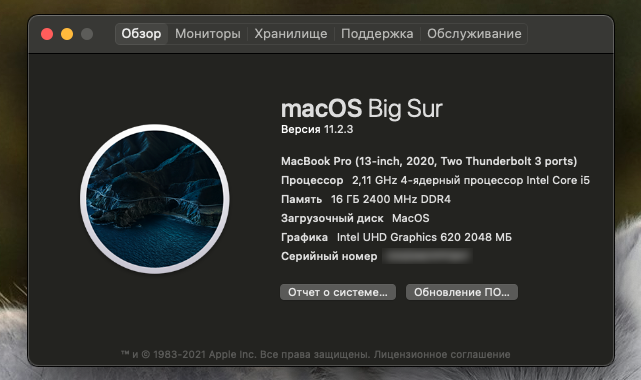
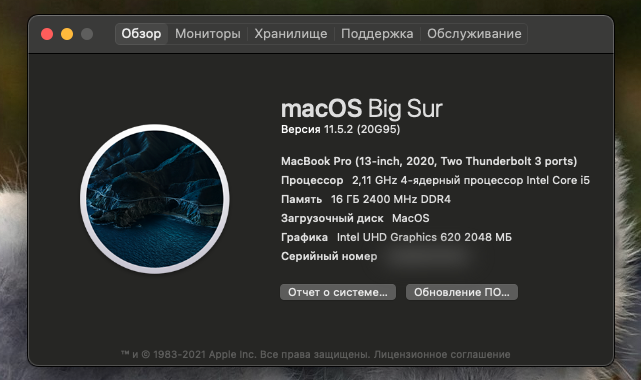
Add files via upload
update info

diff --git a/README.md b/README.md
@@ -18,7 +18,7 @@
 # Tested System Configuration
 - <img src="https://github.com/KerKerOgh/MSI-Prestige-15-Hackintosh/blob/master/Screenshot.png/" width=512>
 - OpenCore: v0.6.7
-- MacOS: BigSur 11.2.3 (20D91)
+- MacOS: BigSur 11.5.2 (20G95)
 - SMBIOS: MacBook Pro 16.3
 - Config OC v0.6.5: [In repository](https://github.com/KerKerOgh/MSI-Prestige-15-Hackintosh/blob/master/OpenCore/config.plist)
 - Config OC v0.6.7: [In repository](https://github.com/KerKerOgh/MSI-Prestige-15-Hackintosh/blob/master/OpenCore/config_067.plist)
@@ -77,6 +77,7 @@
   - sudo pmset powernap 0
   - sudo pmset proximitywake 0
   - sudo pmset standby 0
+  - sudo pmset tcpkeepalive 0
 - Install HeliPort.app to work with internal Wi-Fi \- https://github.com/OpenIntelWireless/HeliPort/releases
 
 # Working
@@ -102,6 +103,7 @@
 
 # Bugs
 - Bug 1: Inverted channels
+- Bug 2: When you reboot from Windows to MacOS, the sound amplifier will not turn on. Use shutdown not reboot.
 
 # Does not work
 - Card Reader Realtek RTS5250 PCI-E
